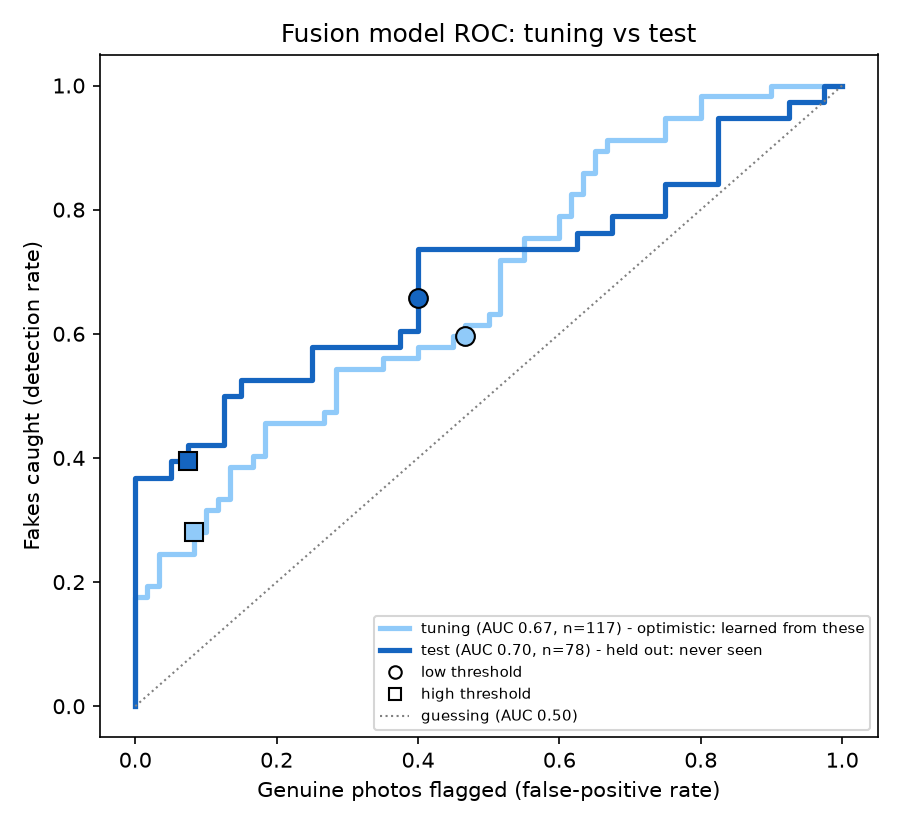
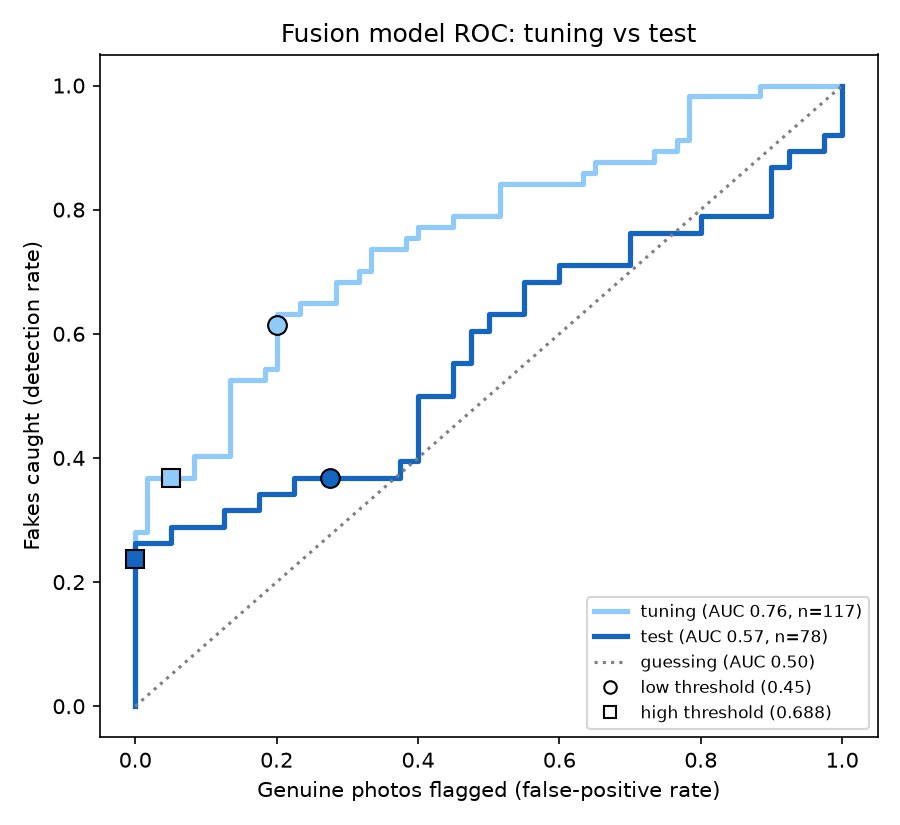
Regenerate ROC and tuning-vs-test figures from the official scores and final model

Changed region(s): [[0.1244, 0.0909, 0.9644, 0.7273], [0.4044, 0.7273, 0.9644, 0.8788], [0.3733, 0.3333, 0.4044, 0.3636]]

diff --git a/scripts/plot_results.py b/scripts/plot_results.py
@@ -1,0 +1,65 @@
+"""Remake the tuning-vs-test figures from the official scores and the committed model.
+Usage: python scripts/plot_results.py data/claim-dataset/scores.csv
+"""
+import sys
+from pathlib import Path
+
+import joblib
+import matplotlib.pyplot as plt
+import numpy as np
+import pandas as pd
+from sklearn.metrics import roc_auc_score, roc_curve
+
+ROOT = Path(__file__).resolve().parents[1]
+FIG = ROOT / "evaluation" / "figures"
+FIG.mkdir(parents=True, exist_ok=True)
+
+bundle = joblib.load(ROOT / "backend" / "fusion" / "fusion_model.joblib")
+feats, low, high = bundle["features"], bundle["low"], bundle["high"]
+df = pd.read_csv(sys.argv[1])
+df["fake"] = (df["label"] == "fake").astype(int)
+df["p"] = bundle["model"].predict_proba(df[feats].values)[:, 1]
+
+splits = {"tuning": df[df.split == "tuning"], "test": df[df.split == "test"]}
+colours = {"tuning": "#90caf9", "test": "#1565c0"}
+
+fig, ax = plt.subplots(figsize=(6, 5.5))
+for name, d in splits.items():
+    fpr, tpr, _ = roc_curve(d.fake, d.p)
+    auc = roc_auc_score(d.fake, d.p)
+    ax.plot(fpr, tpr, color=colours[name], lw=2.5, label=f"{name} (AUC {auc:.2f}, n={len(d)})")
+    g, f = d[d.fake == 0], d[d.fake == 1]
+    for t, marker in ((low, "o"), (high, "s")):
+        ax.plot((g.p >= t).mean(), (f.p >= t).mean(), marker, ms=9,
+                color=colours[name], markeredgecolor="black")
+ax.plot([0, 1], [0, 1], ":", color="grey", label="guessing (AUC 0.50)")
+ax.plot([], [], "o", color="white", markeredgecolor="black", label=f"low threshold ({low})")
+ax.plot([], [], "s", color="white", markeredgecolor="black", label=f"high threshold ({high})")
+ax.set(xlabel="Genuine photos flagged (false-positive rate)",
+       ylabel="Fakes caught (detection rate)", title="Fusion model ROC: tuning vs test")
+ax.legend(loc="lower right", fontsize=8)
+fig.tight_layout()
+fig.savefig(FIG / "roc_tuning_vs_test.png", dpi=150)
+
+rows = {}
+for name, d in splits.items():
+    g, f = d[d.fake == 0], d[d.fake == 1]
+    rows[name] = [(f.p >= low).mean(), (f.p >= high).mean(),
+                  (g.p >= low).mean(), (g.p >= high).mean()]
+labels = ["fakes caught\n(medium+high)", "fakes to fraud team\n(high)",
+          "genuine to review\n(medium+high)", "genuine to fraud team\n(high)"]
+x = np.arange(len(labels))
+fig, ax = plt.subplots(figsize=(8, 4))
+for i, (name, vals) in enumerate(rows.items()):
+    bars = ax.bar(x + (i - 0.5) * 0.35, vals, 0.35, color=colours[name], label=name)
+    ax.bar_label(bars, labels=[f"{v:.0%}" for v in vals], fontsize=8)
+ax.set_xticks(x, labels, fontsize=8)
+ax.set(ylim=(0, 1.1), ylabel="Share of images", title="Tuning (seen in training) vs test (held out)")
+ax.legend(title="split")
+fig.tight_layout()
+fig.savefig(FIG / "tuning_vs_test.png", dpi=150)
+
+for name, v in rows.items():
+    print(f"{name:7} fakes->review {v[0]:.0%}  fakes->high {v[1]:.0%}  "
+          f"genuine->review {v[2]:.0%}  genuine->high {v[3]:.0%}")
+print("Saved both figures in", FIG)
